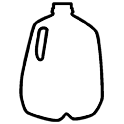
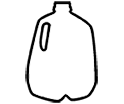
made gallon smaller and put text on bottom

Changed region(s): [[0.1452, 0.0, 0.8468, 1.0]]

diff --git a/src/GallonChallenge.c b/src/GallonChallenge.c
@@ -300,19 +300,20 @@ static void window_load(Window *window) {
     text_layer_set_background_color(streak_text_layer, GColorClear);
     layer_add_child(window_layer, text_layer_get_layer(streak_text_layer));
     
-    text_layer = text_layer_create(GRect(0, 130, width, 20));
+    text_layer = text_layer_create(GRect(4, 134, width, 20));
     text_layer_set_text_alignment(text_layer, GTextAlignmentCenter);
+    text_layer_set_background_color(text_layer, GColorClear);
     layer_add_child(window_layer, text_layer_get_layer(text_layer));
     
-    gallon_filled_layer = bitmap_layer_create(GRect(0, 28, 124, 124));
+    gallon_filled_layer = bitmap_layer_create(GRect(0, 30, 124, 104));
     bitmap_layer_set_bitmap(gallon_filled_layer, gallon_filled_image);
     layer_add_child(window_layer, bitmap_layer_get_layer(gallon_filled_layer));
     
-    white_layer = text_layer_create(GRect(0, 28, 124, 62));
+    white_layer = text_layer_create(GRect(0, 30, 124, 52));
     text_layer_set_background_color(white_layer, GColorWhite);
     layer_add_child(window_layer, text_layer_get_layer(white_layer));
     
-    gallon_layer = bitmap_layer_create(GRect(0, 28, 124, 124));
+    gallon_layer = bitmap_layer_create(GRect(0, 30, 124, 104));
     bitmap_layer_set_bitmap(gallon_layer, gallon_image);
     bitmap_layer_set_background_color(gallon_layer, GColorClear);
     bitmap_layer_set_compositing_mode(gallon_layer, GCompOpClear);
